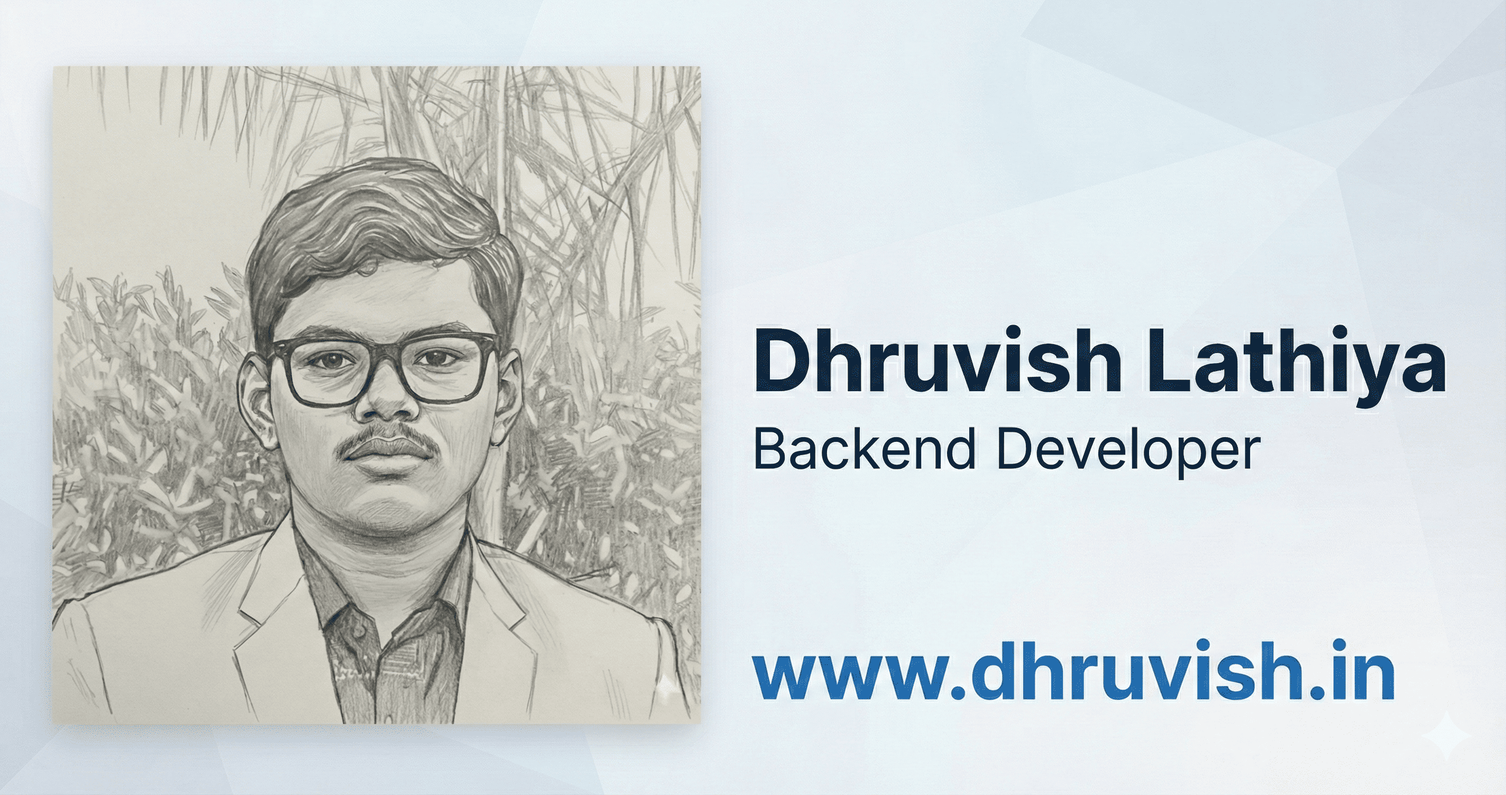
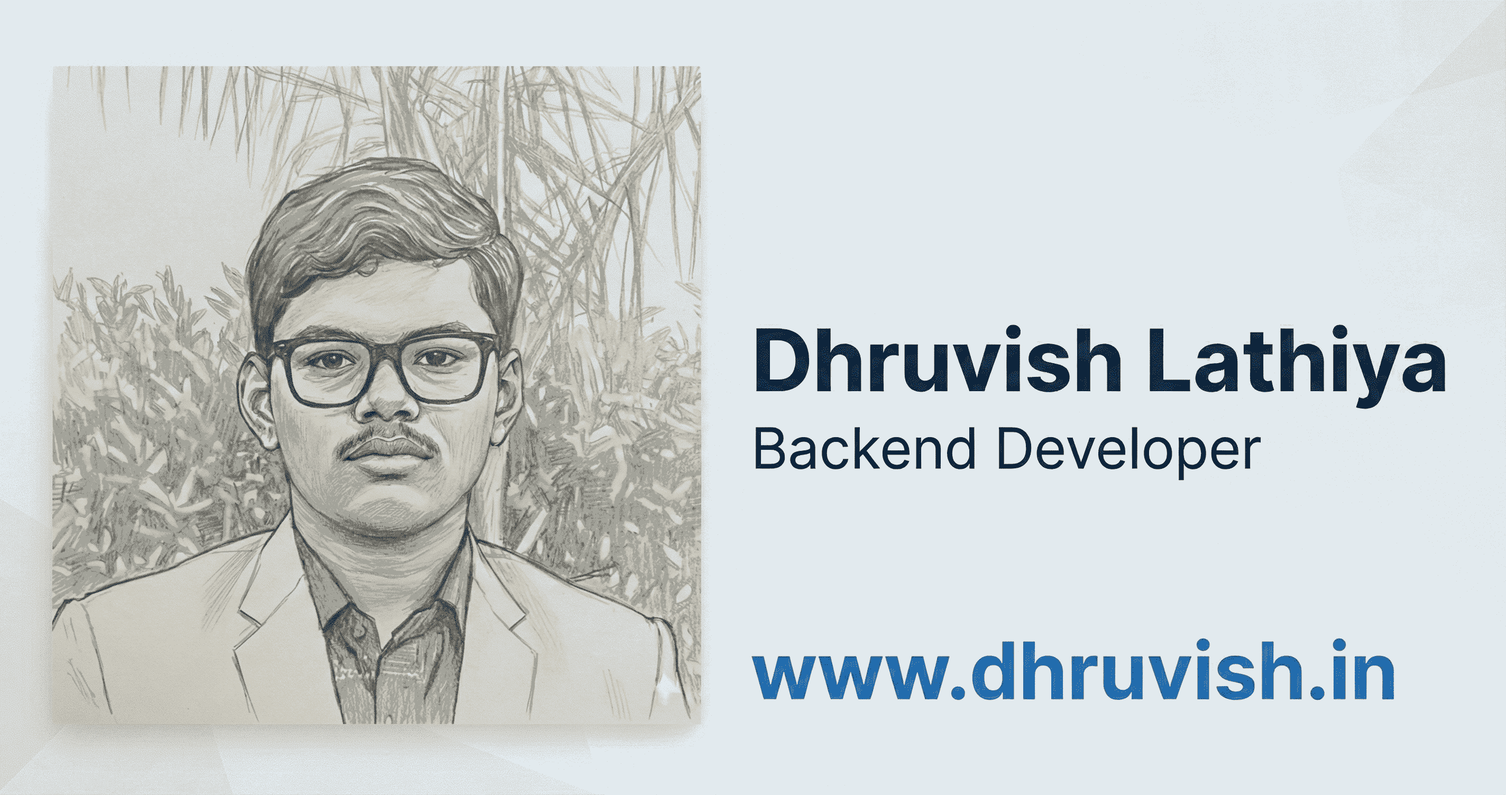
feat; og image

diff --git a/src/routes/_web/projects/index.tsx b/src/routes/_web/projects/index.tsx
@@ -42,7 +42,7 @@ export const Route = createFileRoute('/_web/projects/')({
       },
       {
         property: 'og:image',
-        content: CONFIG.ogImage,
+        content: CONFIG.ogProject,
       },
       { property: 'og:type', content: 'website' },
       { name: 'twitter:card', content: 'summary_large_image' },
@@ -51,7 +51,7 @@ export const Route = createFileRoute('/_web/projects/')({
         name: 'twitter:description',
         content: 'Check out my latest projects and open source contributions.',
       },
-      { name: 'twitter:image', content: CONFIG.ogImage },
+      { name: 'twitter:image', content: CONFIG.ogProject },
     ],
   }),
 })

diff --git a/src/routes/_web/blogs/index.tsx b/src/routes/_web/blogs/index.tsx
@@ -43,7 +43,7 @@ export const Route = createFileRoute('/_web/blogs/')({
       },
       {
         property: 'og:image',
-        content: CONFIG.profilePic,
+        content: CONFIG.ogBlog,
       },
       { property: 'og:type', content: 'website' },
       { name: 'twitter:card', content: 'summary_large_image' },
@@ -52,7 +52,7 @@ export const Route = createFileRoute('/_web/blogs/')({
         name: 'twitter:description',
         content: 'Read our latest thoughts, tutorials, and insights.',
       },
-      { name: 'twitter:image', content: CONFIG.profilePic },
+      { name: 'twitter:image', content: CONFIG.ogBlog },
     ],
   }),
 })

diff --git a/src/config/config.ts b/src/config/config.ts
@@ -9,6 +9,8 @@ export const CONFIG = {
   description: "Freelancer | Let's work together",
   profilePic: 'https://github.com/thedhruvish.png',
   ogImage: 'https://dhruvish.in/og.png',
+  ogProject: 'https://dhruvish.in/og-project.png',
+  ogBlog: 'https://dhruvish.in/og-blog.png',
   SOCIAL_MEDIA: {
     github: 'https://github.com/thedhruvish',
     linkedin: 'https://linkedin.com/in/dhruvishlathiya',
